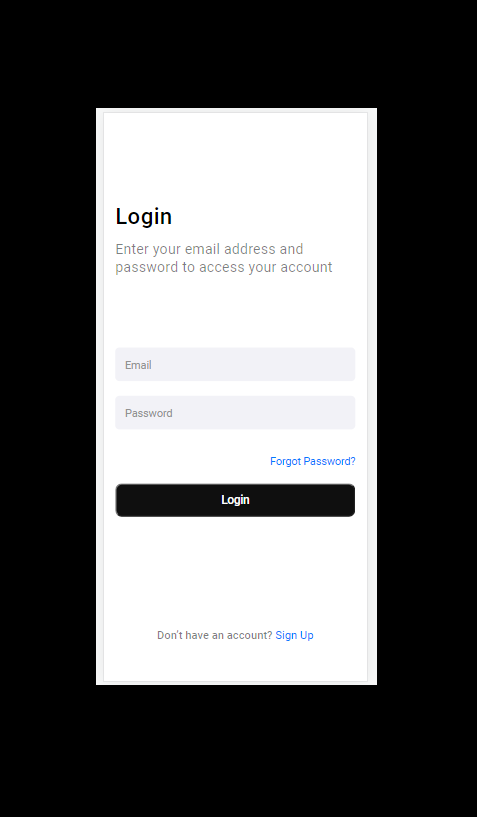
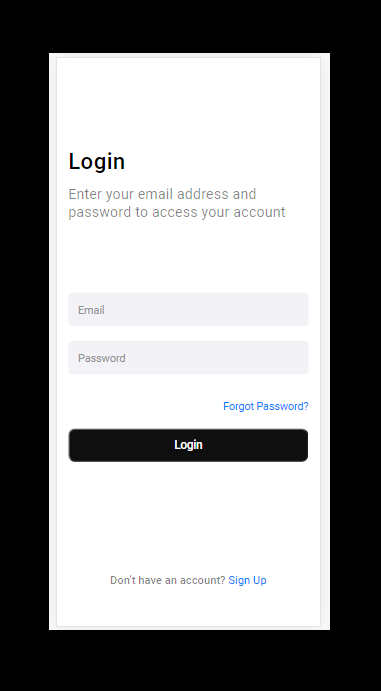
Included another picture and deleted one phrase on this project

Changed region(s): [[0.1155, 0.0608, 0.8661, 0.9117], [0.3176, 0.7598, 0.664, 0.7902]]

diff --git a/README.md b/README.md
@@ -4,14 +4,12 @@
 
 <!---Esses são exemplos. Veja https://shields.io para outras pessoas ou para personalizar este conjunto de escudos. Você pode querer incluir dependências, status do projeto e informações de licença aqui--->
 
-![GitHub repo size](https://img.shields.io/github/repo-size/SergioLuisCardoso/README-template?style=for-the-badge)
-![GitHub language count](https://img.shields.io/github/languages/count/SergioLuisCardoso/README-template?style=for-the-badge)
-![GitHub forks](https://img.shields.io/github/forks/SergioLuisCardoso/README-template?style=for-the-badge)
 
-
-> Visual result of the project login/password screen.
 
 <img src="/screen-login.png" alt="exemplo imagem">
+<br><br>
+
+> Visual result of the project login/password screen.
 
 ### Made of:
 [![Windows](https://img.shields.io/badge/Windows-0078D6?style=for-the-badge&logo=windows&logoColor=white)](https://www.microsoft.com/pt-br/windows/get-windows-10)
